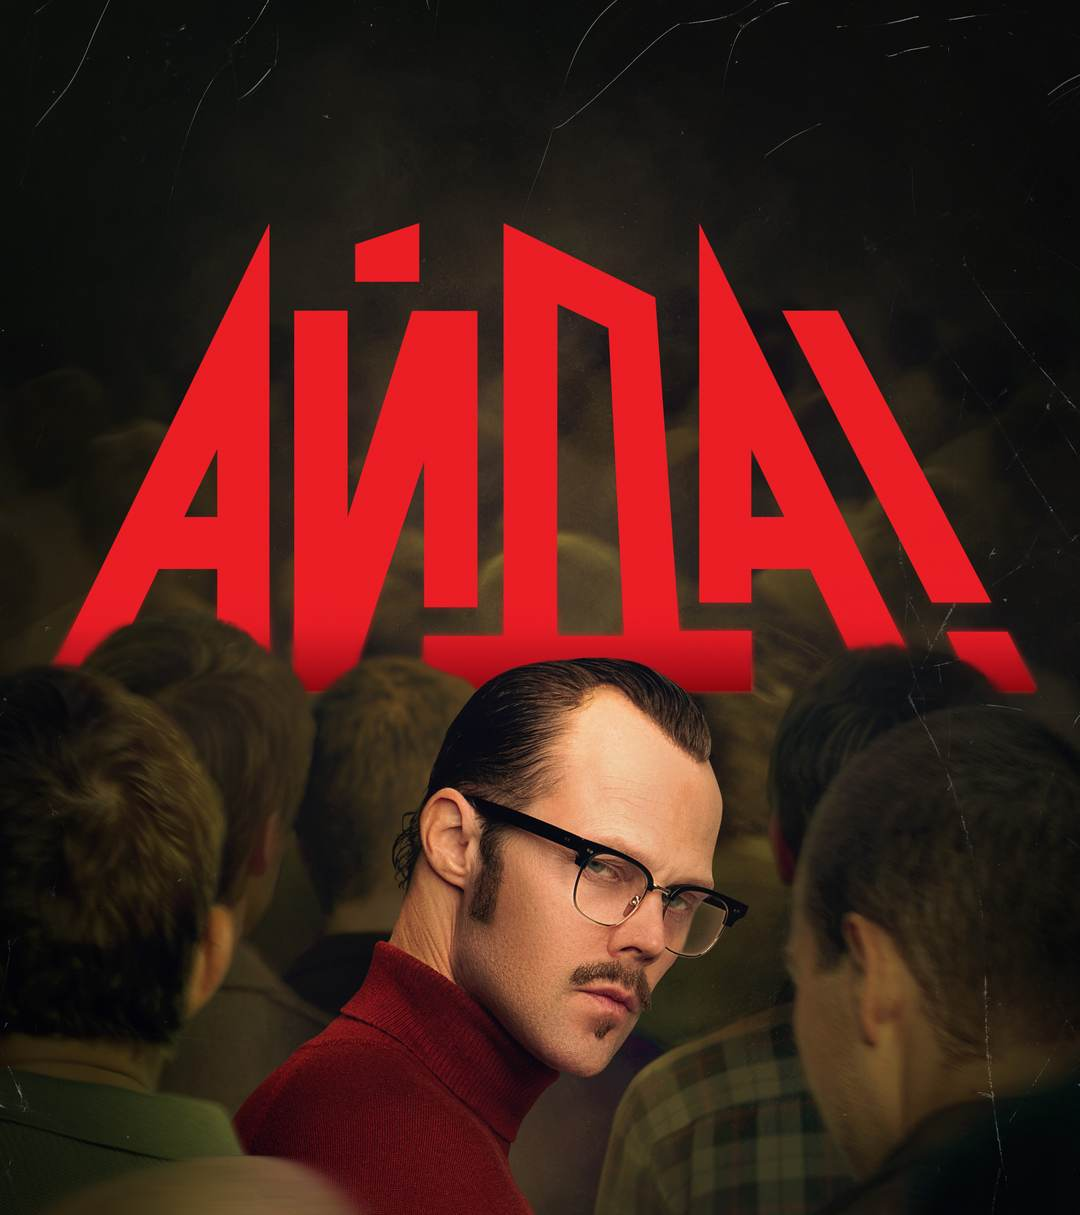
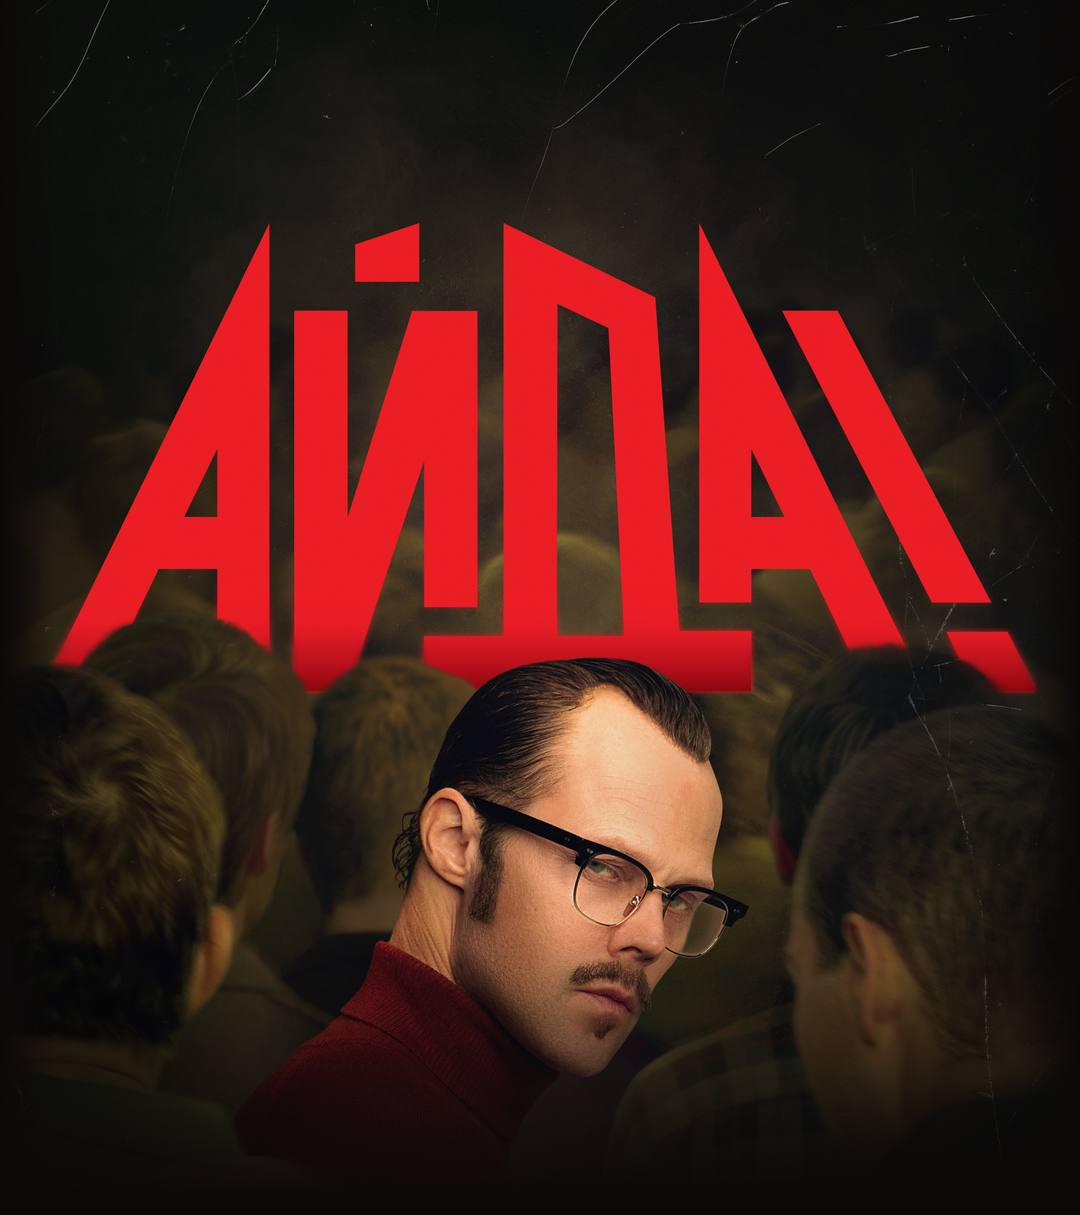
МФ START Айда №5: постер не зависит от vh (Chrome iOS)

Changed region(s): [[0.0306, 0.7613, 0.9778, 1.0], [0.1833, 0.7918, 0.2139, 0.8222], [0.0, 0.8527, 0.0306, 0.8831]]

diff --git a/app.css b/app.css
@@ -10,15 +10,18 @@
   box-sizing: border-box;
 }
 
-html {
+html,
+body {
   height: 100%;
+}
+
+html {
   background: var(--ink);
   -webkit-text-size-adjust: 100%;
   text-size-adjust: 100%;
 }
 
 body {
-  min-height: 100%;
   font-family: -apple-system, BlinkMacSystemFont, "Segoe UI", Roboto, Arial, sans-serif;
   color: #fff;
   -webkit-tap-highlight-color: transparent;
@@ -36,31 +39,20 @@ body {
   position: relative;
   display: flex;
   flex-direction: column;
-  min-height: 100vh;
-  min-height: 100svh;
+  min-height: 100%;
   padding: 0 16px;
   overflow-x: hidden;
   background: var(--ink);
 }
 
 .art {
-  --w: min(100vw, 47vh);
-  position: absolute;
-  top: 0;
-  left: 50%;
-  width: var(--w);
-  height: calc(var(--w) * 1.125);
-  margin-left: calc(var(--w) / -2);
-  background: url("poster.jpg") no-repeat center top / 100% 100%;
+  flex: 1 1 0;
+  align-self: stretch;
+  min-height: 190px;
+  margin: 0 -16px -22px;
+  background: url("poster.jpg") no-repeat center top / contain;
 }
-.art::after {
-  content: "";
-  position: absolute;
-  inset: 0 -2px -2px;
-  background:
-    linear-gradient(180deg, rgba(11, 9, 8, 0) 74%, rgba(11, 9, 8, 0.8) 92%, var(--ink) 99%),
-    linear-gradient(90deg, var(--ink) 0.5%, rgba(11, 9, 8, 0) 5%, rgba(11, 9, 8, 0) 95%, var(--ink) 99.5%);
-}
+
 .age {
   position: absolute;
   top: clamp(8px, 1.8vh, 16px);
@@ -91,12 +83,14 @@ body {
 .brand {
   position: absolute;
   top: calc(min(100vw, 47vh) * 0.065);
+  top: calc(min(100vw, 45svh) * 0.065);
   left: 0;
   right: 0;
 }
 .brand__logo {
   display: block;
   width: max(84px, calc(min(100vw, 47vh) * 0.27));
+  width: max(84px, calc(min(100vw, 45svh) * 0.27));
   margin: 0 auto;
 }
 .title {
@@ -152,6 +146,7 @@ body {
   gap: 0.4em;
   width: 100%;
   height: clamp(88px, 20vh, 190px);
+  height: clamp(88px, 20svh, 190px);
   margin-top: clamp(10px, 2vh, 20px);
   border-radius: 18px;
   background: var(--red);
@@ -231,6 +226,8 @@ body {
 
 @media (orientation: landscape) {
   .wrapper {
+    min-height: 100vh;
+    min-height: 100svh;
     padding: 0 10vw;
     background:
       linear-gradient(90deg, var(--ink) 4%, rgba(11, 9, 8, 0) 40%, rgba(11, 9, 8, 0) 88%, var(--ink) 98%) no-repeat right calc(6vw - 3px) top / 129vh 71vh,

diff --git a/index.html b/index.html
@@ -11,10 +11,10 @@
     <input type="checkbox" id="gate" class="gate" autocomplete="off" tabindex="-1" aria-hidden="true" />
 
     <div class="wrapper">
-      <div class="art"></div>
       <span class="age">18+</span>
 
       <main class="main">
+        <div class="art"></div>
         <div class="brand">
           <img src="logo.png" class="brand__logo" alt="Онлайн-кинотеатр START" />
           <img src="title.png" class="title" alt="Айда!" />
